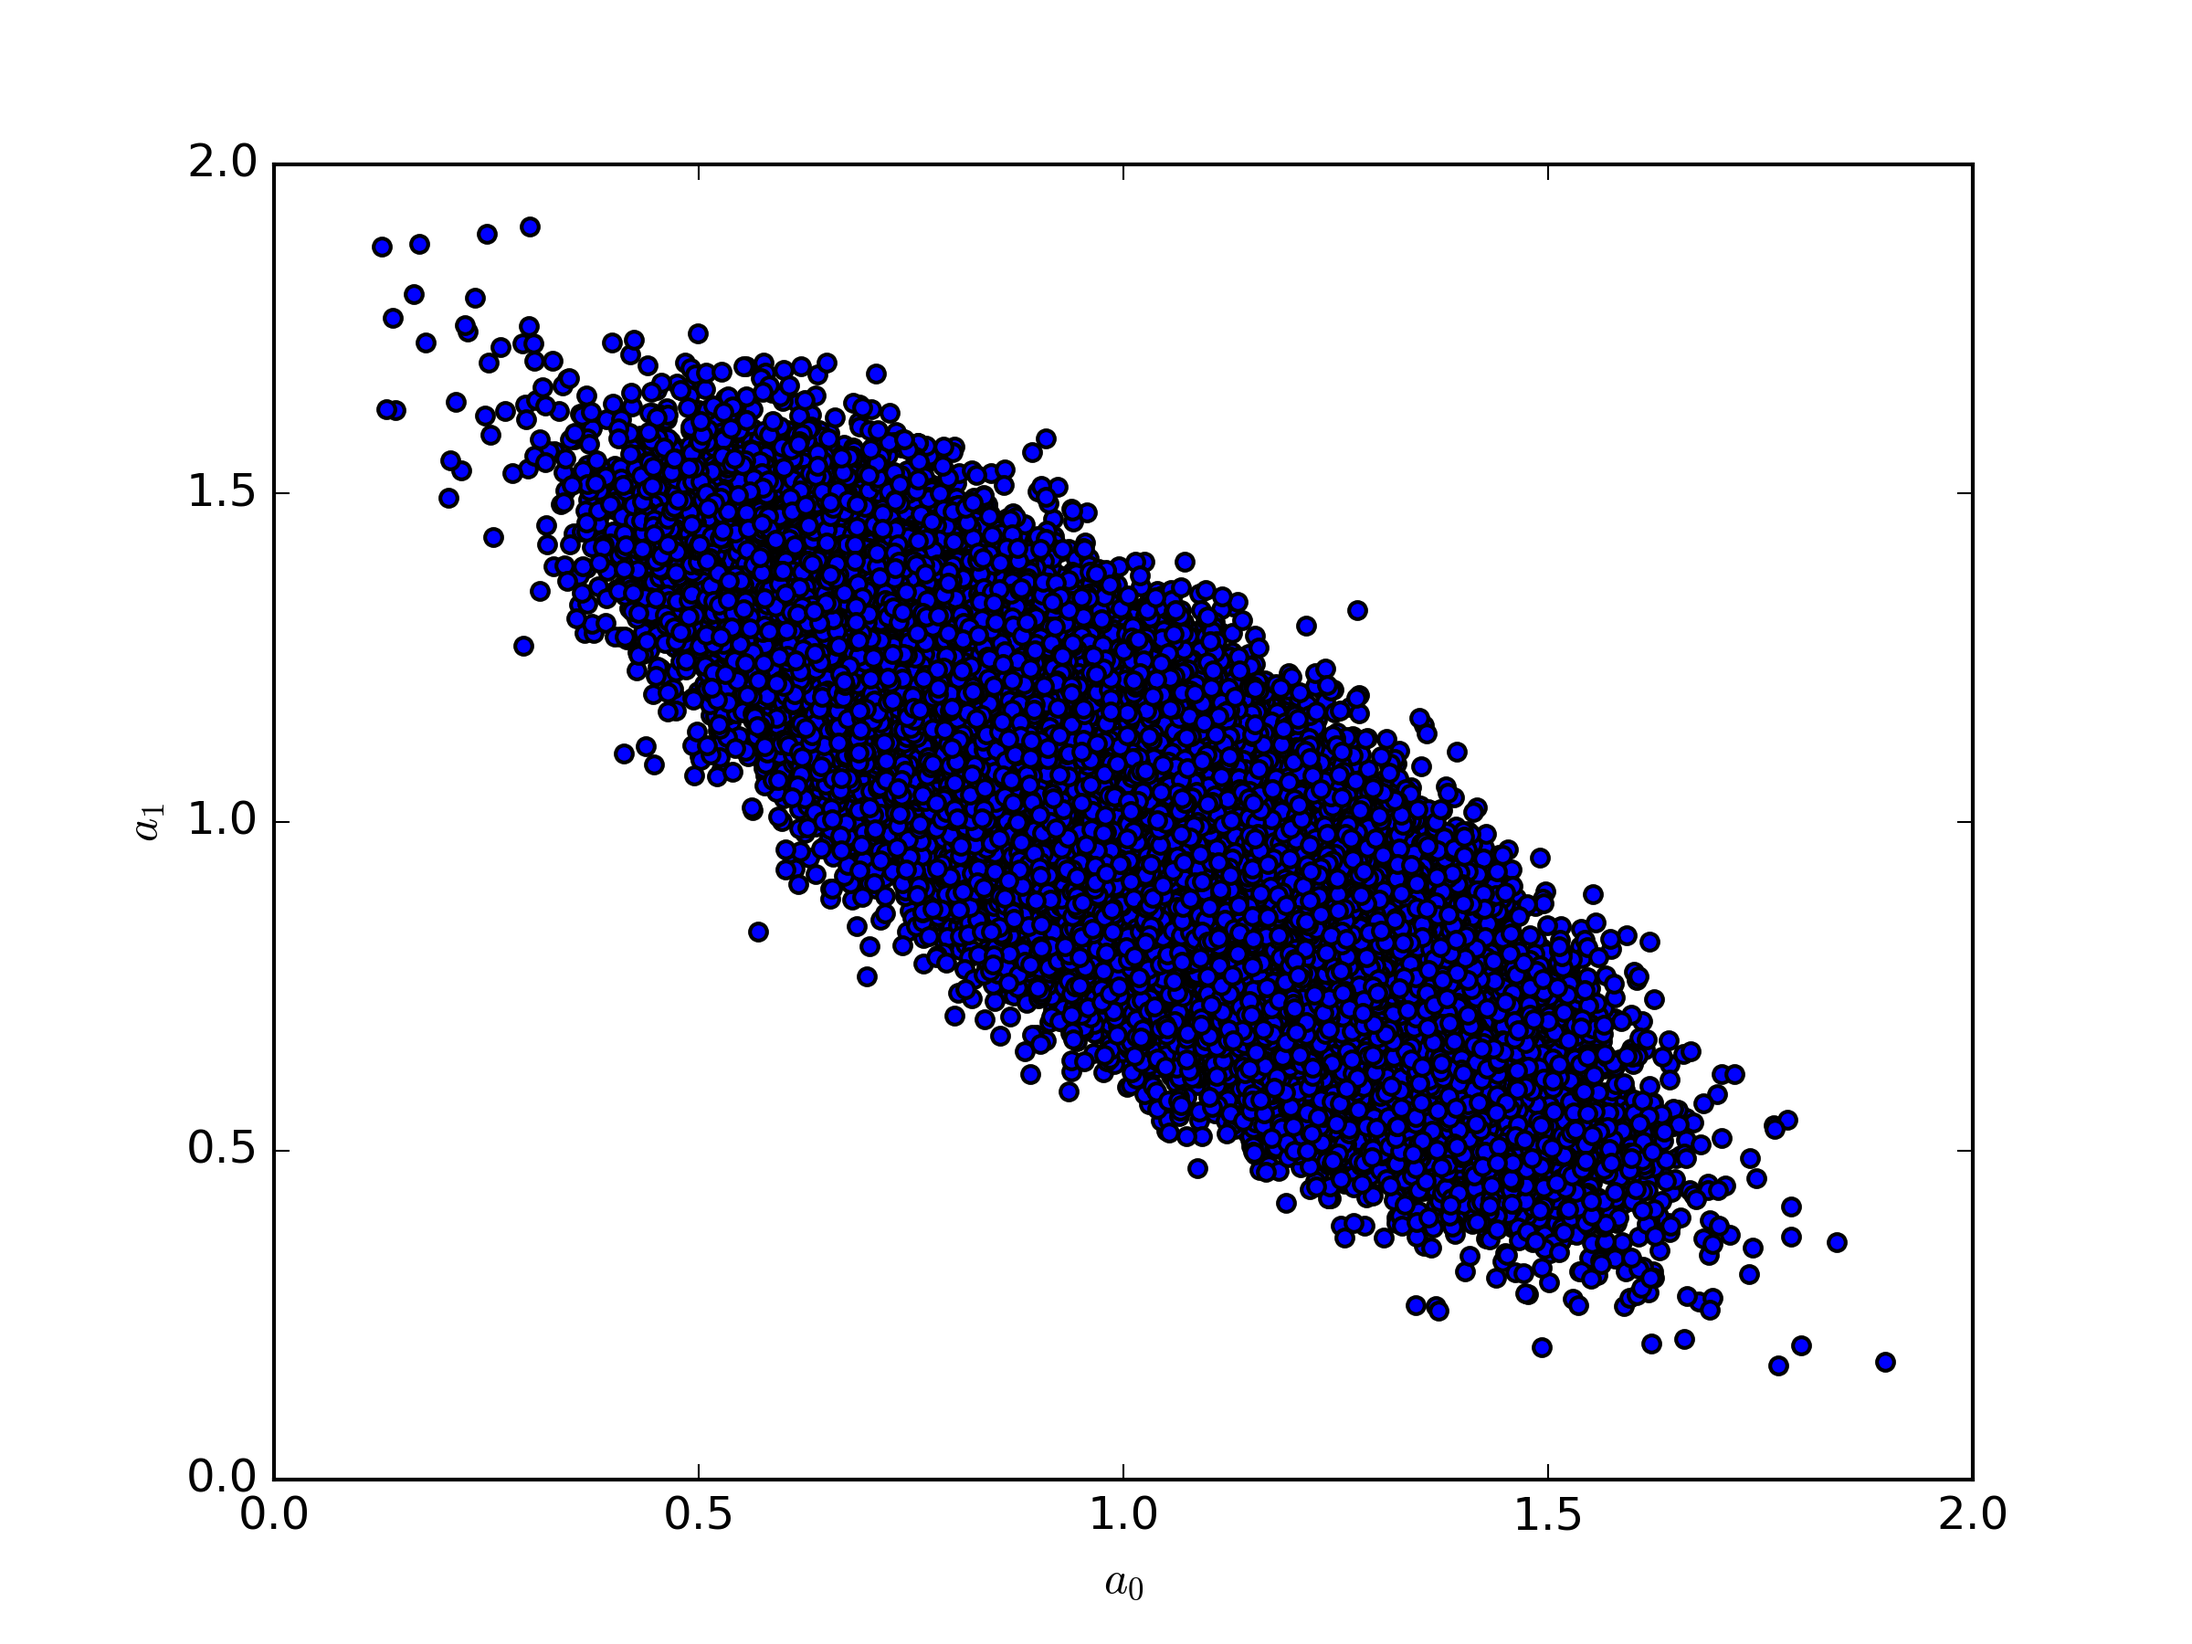
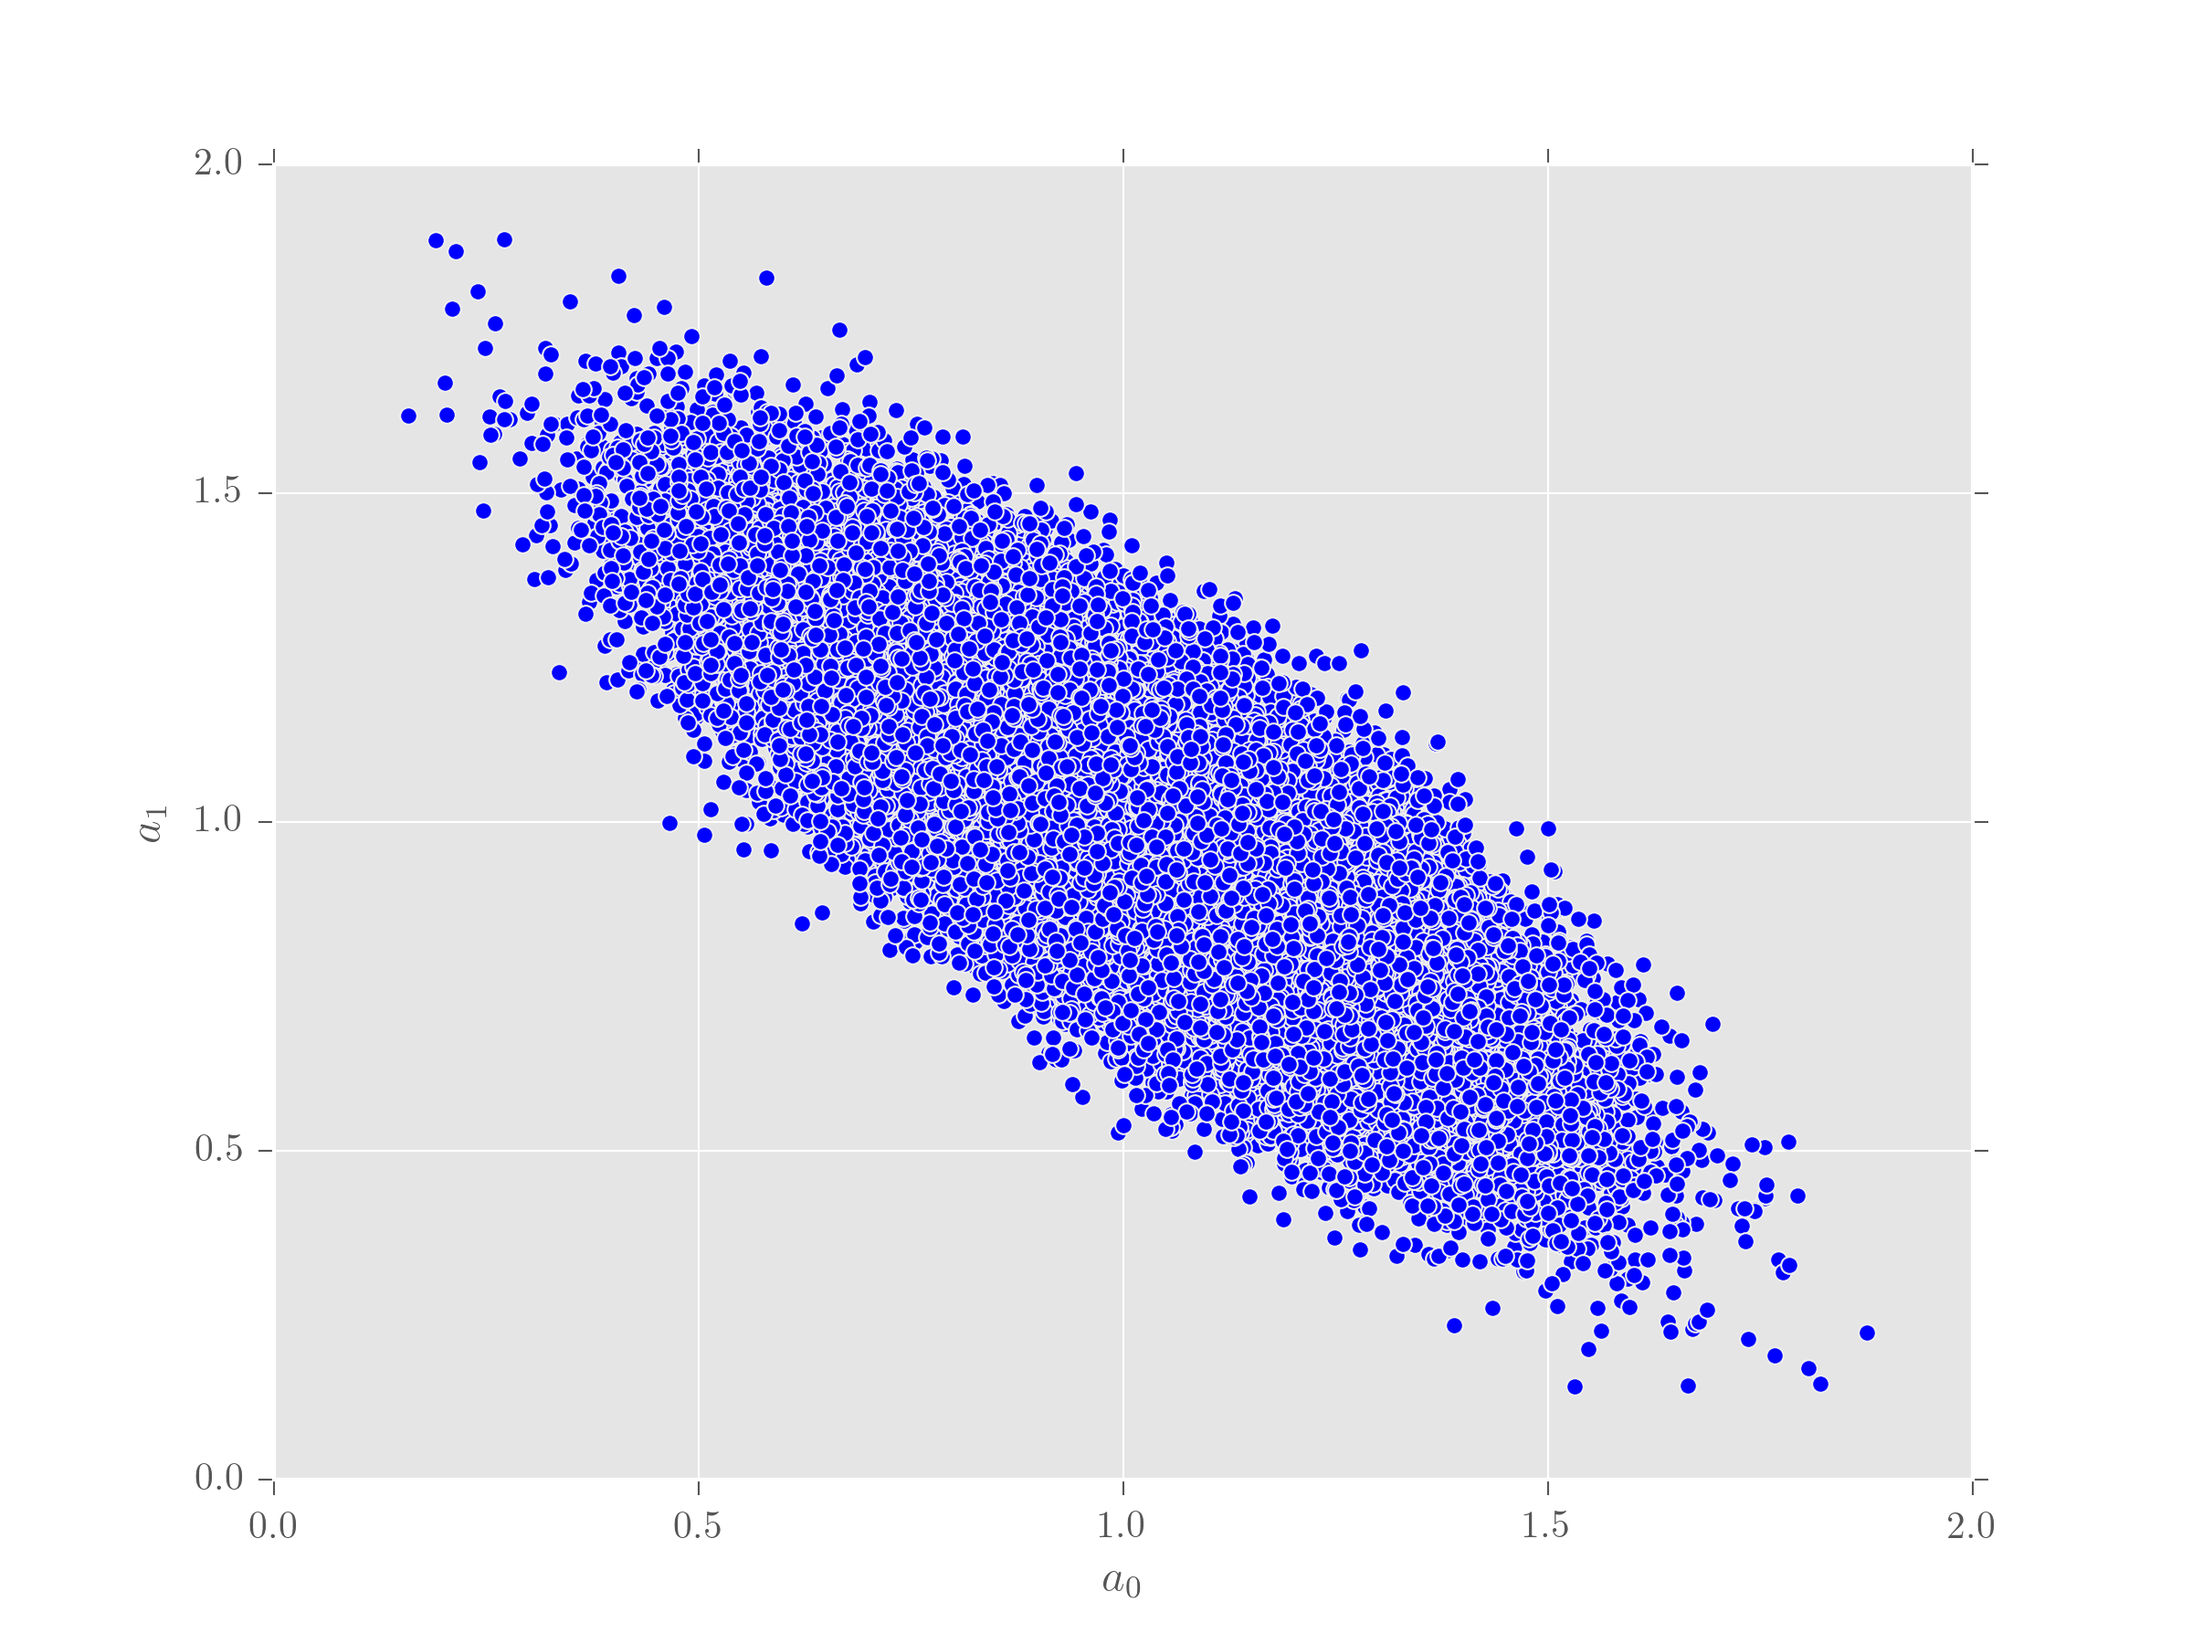
plot fix

diff --git a/Blatt02/aufgabe4.py b/Blatt02/aufgabe4.py
@@ -1,6 +1,11 @@
 import numpy as np
 #import pandas as pd
 import matplotlib.pyplot as plt
+plt.style.use('ggplot')
+plt.rcParams['text.usetex'] = True
+plt.rcParams['text.latex.unicode'] = True
+plt.rcParams['font.family'] = 'lmodern'
+
 def aufg4():
 #b)
 	rho = -0.8
@@ -17,6 +22,7 @@ def aufg4():
 	plt.scatter(a[:,0],a[:,1],rasterized=True)
 	plt.xlabel(r'$a_0$')
 	plt.ylabel(r'$a_1$')
+	plt.xlim(0,2)
 	plt.savefig('scatterplot_a0_a1.png',dpi=300)
 	plt.show()
 	plt.close()
